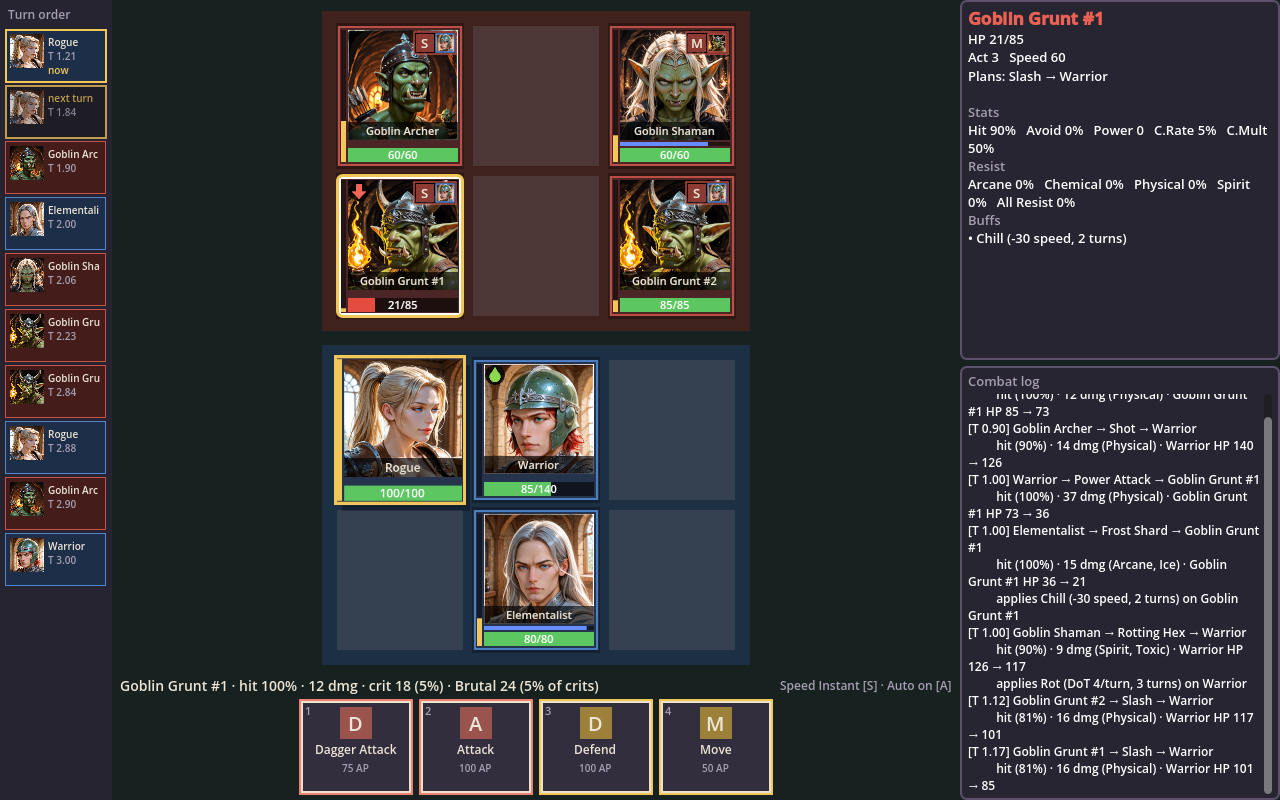
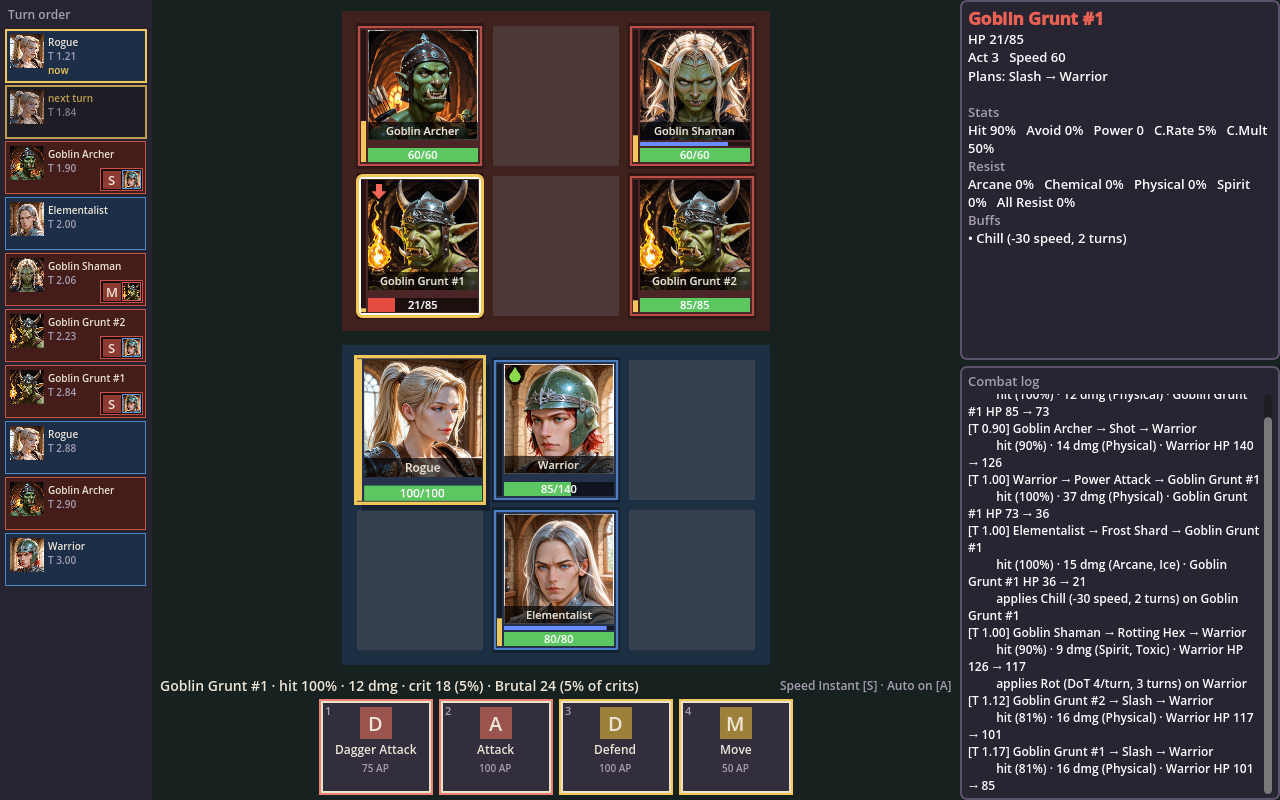
Intents on the turn order instead of the enemy cards
Each enemy's next chip shows its plan (action icon and target face, "?" when
confused, "..." when waiting) and flashes gold when a trigger changes it.
The card badge is gone. The timeline is wider (152 px) so chips fit the
intent and full names.

diff --git a/game/scripts/BattleUi/Timeline.cs b/game/scripts/BattleUi/Timeline.cs
@@ -1,3 +1,4 @@
+using EternalDungeon.Core.Assets;
 using EternalDungeon.Core.Combat;
 using Godot;
 using Side = EternalDungeon.Core.Combat.Side;
@@ -7,7 +8,7 @@ namespace EternalDungeon.Game.BattleUi;
 /// <summary>
 /// The turn order down the left edge (M2 brief §4, §6): upcoming turns as small portraits, sliding into their new order
 /// after each action. While an action is hovered, a ghost marker shows where the hero's next turn would land (and
-/// where its cast completes).
+/// where its cast completes). Each enemy's next chip shows its intent: the planned action and its target.
 /// </summary>
 public partial class Timeline : Control
 {
@@ -70,7 +71,9 @@ public partial class Timeline : Control
                 chips[key] = chip;
                 AddChild(chip);
             }
-            chip.Set(unit, tick, ghostLabel, i == 0 && ghostLabel is null && screen.Session.Awaiting is not null);
+            // An enemy's plan is for its next turn: only its first chip shows it.
+            var intent = ghostLabel is null && n == 1 && unit.Alive ? unit.Intent : null;
+            chip.Set(unit, tick, ghostLabel, i == 0 && ghostLabel is null && screen.Session.Awaiting is not null, intent);
             var t = chip.CreateTween().SetParallel();
             t.TweenProperty(chip, "position", new Vector2(6, Top + i * ChipHeight), 0.25f).SetTrans(Tween.TransitionType.Cubic).SetEase(Tween.EaseType.Out);
             t.TweenProperty(chip, "modulate:a", ghostLabel is null ? 1f : 0.75f, 0.2f);
@@ -92,7 +95,7 @@ public partial class Timeline : Control
         var label = Ui.Label(text, 11, Ui.Stagger);
         label.AddThemeConstantOverride("outline_size", 4);
         label.AddThemeColorOverride("font_outline_color", Colors.Black);
-        label.Position = new Vector2(chip.Size.X - 44, chip.Size.Y - 18);
+        label.Position = new Vector2(42, chip.Size.Y - 17);              // bottom left: the intent sits bottom right
         label.MouseFilter = MouseFilterEnum.Ignore;
         chip.AddChild(label);
         var seconds = Math.Max(0.8f, screen.Main.Settings.ActionSeconds * 3f);
@@ -102,23 +105,45 @@ public partial class Timeline : Control
         t.TweenCallback(Callable.From(label.QueueFree));
     }
 
-    /// <summary>One upcoming turn: a small portrait, the unit's name and when.</summary>
+    /// <summary>A trigger changed <paramref name="unit"/>'s plan (a taunt, Stealth, its target falling): its intent
+    /// flashes gold on its next chip.</summary>
+    public void FlashIntent(Unit unit, float seconds)
+    {
+        if (chips.TryGetValue(unit.Id + "#1", out var chip)) chip.FlashIntent(seconds);
+    }
+
+    /// <summary>One upcoming turn: a small portrait, the unit's name and when, and for an enemy's next turn its plan.</summary>
     partial class Chip(BattleScreen screen) : Control
     {
+        const int Icon = 18;
+
         Unit? unit;
         long tick;
         string? ghost;
         bool now;
+        Intent? intent;
+        float flash;                                                     // 0–1 while the intent flashes
 
-        public void Set(Unit u, long t, string? ghostLabel, bool current)
+        public void Set(Unit u, long t, string? ghostLabel, bool current, Intent? plan)
         {
             unit = u;
             tick = t;
             ghost = ghostLabel;
             now = current;
-            Size = new Vector2(100, ChipHeight - 4);
+            intent = plan;
+            Size = new Vector2(140, ChipHeight - 4);
             MouseFilter = MouseFilterEnum.Ignore;
             QueueRedraw();
+        }
+
+        public void FlashIntent(float seconds)
+        {
+            var t = CreateTween();
+            t.TweenMethod(Callable.From<float>(v =>
+            {
+                flash = v;
+                QueueRedraw();
+            }), 1f, 0f, Math.Max(0.6f, seconds));
         }
 
         public override void _Draw()
@@ -130,24 +155,65 @@ public partial class Timeline : Control
             DrawRect(box, ghost is null ? new Color(side.Darkened(0.7f), 0.95f) : new Color(0, 0, 0, 0.3f));
             DrawRect(box, ghost is not null ? Ui.Gold : now ? Ui.Gold : new Color(side, 0.8f), false, ghost is not null || now ? 2 : 1);
             var portrait = new Rect2(4, 4, 34, 34);
-            if (screen.Main.Art.Portrait(unit.Def.Id) is { } tex)
-            {
-                // A tall portrait shows its top square (the face), not the whole image squashed.
-                var side0 = Math.Min(tex.GetWidth(), tex.GetHeight());
-                DrawTextureRectRegion(tex, portrait, new Rect2(0, 0, side0, side0));
-            }
-            else
-            {
-                DrawRect(portrait, side.Darkened(0.45f));
-                var initials = string.Concat(unit.Def.Name.Split(' ', StringSplitOptions.RemoveEmptyEntries).Select(w => w[0]));
-                DrawString(font, portrait.Position + new Vector2(0, portrait.Size.Y * 0.62f), initials, HorizontalAlignment.Center, portrait.Size.X, 14, Ui.Ink);
-            }
+            DrawFace(font, unit, portrait, 14);
             var x = portrait.End.X + 4;
             var w = Size.X - x - 2;
-            var name = unit.Name.Length > 11 ? unit.Name[..10] + "…" : unit.Name;
+            var name = unit.Name.Length > 17 ? unit.Name[..16] + "…" : unit.Name;
             DrawString(font, new Vector2(x, 16), ghost ?? name, HorizontalAlignment.Left, w, 10, ghost is null ? Ui.Ink : Ui.Gold);
             DrawString(font, new Vector2(x, 30), Text.F("ui.at_time", ("time", Core.Combat.CombatLog.T(tick))), HorizontalAlignment.Left, w, 10, Ui.Dim);
             if (now) DrawString(font, new Vector2(x, 44), Text.T("ui.now"), HorizontalAlignment.Left, w, 10, Ui.Gold);
+            if (intent is not null) DrawIntent(font, intent);
+        }
+
+        /// <summary>
+        /// The enemy's plan, bottom right (Anchor: Combat › Enemy targeting): the planned action's icon (its initial
+        /// until icons exist), then a small portrait of its target ("↑" for a Move, nothing for a self action). "?"
+        /// while Confused, "…" when it plans to wait. Gold while it flashes.
+        /// </summary>
+        void DrawIntent(Font font, Intent plan)
+        {
+            var d = plan.Decision;
+            var hasTarget = d is { Tile: not null } || (d?.Target is { } t0 && t0 != unit);
+            var width = plan.Unknown || d is null || !hasTarget ? Icon + 4 : Icon * 2 + 6;
+            var box = new Rect2(Size.X - width - 3, Size.Y - Icon - 7, width, Icon + 4);
+            DrawRect(box, new Color(0, 0, 0, 0.6f));
+            DrawRect(box, flash > 0 ? Ui.Gold.Lerp(Ui.Enemy, 1 - flash) : new Color(Ui.Enemy, 0.8f), false, flash > 0 ? 3 : 1);
+            var slot = new Rect2(box.Position + new Vector2(2, 2), new Vector2(Icon, Icon));
+            if (plan.Unknown || d is null)
+            {
+                DrawString(font, slot.Position + new Vector2(0, 14), plan.Unknown ? "?" : "…", HorizontalAlignment.Center, slot.Size.X, 14, Ui.Ink);
+                return;
+            }
+            if (screen.Main.Art.Get(ArtCatalog.ActionIconId(d.Action.Id)) is { } icon)
+                DrawTextureRect(icon, slot, false);
+            else
+            {
+                DrawRect(slot, Ui.Enemy.Darkened(0.4f));
+                DrawString(font, slot.Position + new Vector2(0, 14), d.Action.Name[..1], HorizontalAlignment.Center, slot.Size.X, 13, Ui.Ink);
+            }
+            if (!hasTarget) return;
+            var second = new Rect2(slot.Position + new Vector2(Icon + 2, 0), slot.Size);
+            if (d.Tile is not null)
+            {
+                DrawString(font, second.Position + new Vector2(0, 14), "↑", HorizontalAlignment.Center, second.Size.X, 14, Ui.Ink);
+                return;
+            }
+            DrawFace(font, d.Target!, second, 9);
+            DrawRect(second, new Color(Ui.Side(d.Target!.Side), 0.9f), false, 1);
+        }
+
+        /// <summary>A unit's face: the top square of its portrait (a tall one shows its face), or its initials.</summary>
+        void DrawFace(Font font, Unit who, Rect2 rect, int initialsSize)
+        {
+            if (screen.Main.Art.Portrait(who.Def.Id) is { } tex)
+            {
+                var square = Math.Min(tex.GetWidth(), tex.GetHeight());
+                DrawTextureRectRegion(tex, rect, new Rect2(0, 0, square, square));
+                return;
+            }
+            DrawRect(rect, Ui.Side(who.Side).Darkened(0.45f));
+            var initials = string.Concat(who.Def.Name.Split(' ', StringSplitOptions.RemoveEmptyEntries).Select(w => w[0]));
+            DrawString(font, rect.Position + new Vector2(0, rect.Size.Y * 0.62f), initials, HorizontalAlignment.Center, rect.Size.X, initialsSize, Ui.Ink);
         }
     }
 }

diff --git a/game/scripts/BattleUi/CardFace.cs b/game/scripts/BattleUi/CardFace.cs
@@ -91,8 +91,6 @@ public partial class CardFace : Control
             x += ArtCatalog.StatusIconDisplay + 2;
         }
 
-        if (Unit.Alive && Unit.Intent is { } intent) DrawIntent(font, p, intent);
-
         // Act meter (or cast progress) up the left edge.
         var meter = new Rect2(3, 4, 5, Size.Y - 8);
         DrawRect(meter, new Color(0, 0, 0, 0.5f));
@@ -139,70 +137,6 @@ public partial class CardFace : Control
         DrawRect(new Rect2(Vector2.One, Size - Vector2.One * 2), mark, false, Mark == CardMark.None ? 2 : 4);
         if (screen.Main.Art.Get($"card_frame_{ArtCatalog.SizeName(Unit.Def.Size)}") is { } frame && !rotatePortrait)
             DrawTextureRect(frame, new Rect2(Vector2.Zero, Size), false);
-    }
-
-    const int IntentIcon = 18;
-
-    /// <summary>0–1 while the intent flashes after a trigger changed the plan.</summary>
-    float intentFlash;
-
-    /// <summary>The plan changed because of something a unit did (a taunt, Stealth, a target falling): flash it.</summary>
-    public void FlashIntent(float seconds)
-    {
-        var t = CreateTween();
-        t.TweenMethod(Callable.From<float>(v =>
-        {
-            intentFlash = v;
-            QueueRedraw();
-        }), 1f, 0f, Math.Max(0.6f, seconds));
-    }
-
-    /// <summary>
-    /// An enemy's plan in the top-right corner of its portrait (Anchor: Combat › Enemy targeting): the planned
-    /// action's icon, then a small portrait of its target ("↑" for a Move, nothing for a self action). "?" while
-    /// Confused, "…" when it plans to wait.
-    /// </summary>
-    void DrawIntent(Font font, Rect2 p, Intent intent)
-    {
-        var d = intent.Decision;
-        var hasTarget = d is { Tile: not null } || (d?.Target is { } t0 && t0 != Unit);
-        var width = intent.Unknown || d is null || !hasTarget ? IntentIcon + 4 : IntentIcon * 2 + 6;
-        var box = new Rect2(p.End.X - width - 2, p.Position.Y + 2, width, IntentIcon + 4);
-        DrawRect(box, new Color(0, 0, 0, 0.75f));
-        DrawRect(box, intentFlash > 0 ? Ui.Gold.Lerp(Ui.Enemy, 1 - intentFlash) : new Color(Ui.Enemy, 0.8f), false, intentFlash > 0 ? 3 : 1);
-        var slot = new Rect2(box.Position + new Vector2(2, 2), new Vector2(IntentIcon, IntentIcon));
-        if (intent.Unknown || d is null)
-        {
-            DrawString(font, slot.Position + new Vector2(0, 14), intent.Unknown ? "?" : "…", HorizontalAlignment.Center, slot.Size.X, 14, Ui.Ink);
-            return;
-        }
-        if (screen.Main.Art.Get(ArtCatalog.ActionIconId(d.Action.Id)) is { } icon)
-            DrawTextureRect(icon, slot, false);
-        else
-        {
-            DrawRect(slot, Ui.Enemy.Darkened(0.4f));
-            DrawString(font, slot.Position + new Vector2(0, 14), d.Action.Name[..1], HorizontalAlignment.Center, slot.Size.X, 13, Ui.Ink);
-        }
-        if (!hasTarget) return;
-        var second = new Rect2(slot.Position + new Vector2(IntentIcon + 2, 0), slot.Size);
-        if (d.Tile is not null)
-        {
-            DrawString(font, second.Position + new Vector2(0, 14), "↑", HorizontalAlignment.Center, second.Size.X, 14, Ui.Ink);
-            return;
-        }
-        var target = d.Target!;
-        if (screen.Main.Art.Portrait(target.Def.Id) is { } tex)
-        {
-            var square = Math.Min(tex.GetWidth(), tex.GetHeight());         // a tall portrait shows its face
-            DrawTextureRectRegion(tex, second, new Rect2(0, 0, square, square));
-        }
-        else
-        {
-            DrawRect(second, Ui.Side(target.Side).Darkened(0.45f));
-            var initials = string.Concat(target.Def.Name.Split(' ', StringSplitOptions.RemoveEmptyEntries).Select(w => w[0]));
-            DrawString(font, second.Position + new Vector2(0, 13), initials, HorizontalAlignment.Center, second.Size.X, 10, Ui.Ink);
-        }
-        DrawRect(second, new Color(Ui.Side(target.Side), 0.9f), false, 1);
     }
 
     string PortraitState()

diff --git a/game/scripts/BattleUi/BattleScreen.cs b/game/scripts/BattleUi/BattleScreen.cs
@@ -147,7 +147,7 @@ public partial class BattleScreen : Control
 
     static class Layout
     {
-        public const float TimelineWidth = 112, PanelWidth = 320, BarHeight = 124;
+        public const float TimelineWidth = 152, PanelWidth = 320, BarHeight = 124;
     }
 
     void Layout0()
@@ -343,10 +343,9 @@ public partial class BattleScreen : Control
                 Float(i.Unit, T("ui.interrupted"), Ui.Enemy, 14);
                 board.Cards[i.Unit].Shake(s * 0.3f);
                 break;
-            case IntentSet { Triggered: true } i when board.Cards.ContainsKey(i.Unit):
-                // A taunt, Stealth or a fall changed an enemy's plan: its intent flashes.
-                board.Cards[i.Unit].Redraw();
-                if (s > 0) board.Cards[i.Unit].Face.FlashIntent(s * 2.4f);
+            case IntentSet { Triggered: true } i:
+                // A taunt, Stealth or a fall changed an enemy's plan: its intent flashes on its turn-order chip.
+                if (s > 0) timeline.FlashIntent(i.Unit, s * 2.4f);
                 break;
             case TurnLost l:
                 Float(l.Unit, T("ui.turn_lost"), Ui.Dim, 14);

diff --git a/src/Core/Combat/UnitAi.cs b/src/Core/Combat/UnitAi.cs
@@ -5,7 +5,7 @@ namespace EternalDungeon.Core.Combat;
 /// <summary>What a unit will do with its turn: an action and its target unit or tile.</summary>
 public sealed record Decision(ActionDef Action, Unit? Target, Tile? Tile);
 
-/// <summary>An enemy's committed next turn, shown on its card (Anchor: Combat › Enemy targeting). A null
+/// <summary>An enemy's committed next turn, shown on the turn order (Anchor: Combat › Enemy targeting). A null
 /// <see cref="Decision"/> means it will wait. <see cref="Unknown"/>: it's Confused and will act at random ("?").</summary>
 public sealed record Intent(Decision? Decision, bool Unknown = false);
 

diff --git a/src/Core/Combat/Unit.cs b/src/Core/Combat/Unit.cs
@@ -56,7 +56,7 @@ public sealed class Unit
     /// again once a Threatening change ends.</summary>
     public double EffectiveThreat => ThreatScore * Threatening;
 
-    /// <summary>An enemy's committed next action, shown on its card (null for heroes).</summary>
+    /// <summary>An enemy's committed next action, shown on its next turn-order chip (null for heroes).</summary>
     public Intent? Intent { get; set; }
 
     /// <summary>Hidden. Rises as Health drops: the share of Health missing, plus the Vulnerability stat in percent.</summary>

diff --git a/docs/design/presentation.md b/docs/design/presentation.md
@@ -40,8 +40,8 @@ Designed at **1280×800** (Steam Deck's native 16:10) and scaled up for larger s
    chance, damage on a normal hit, a crit and a Brutal crit with their chances, effects it would apply, and procs that
    could trigger with their chances. Damage is static (no damage roll), so the numbers are exact; procs aren't in them.
 4. Click to confirm; right-click or Escape steps back. Enemy turns play automatically.
-   **Enemy intents:** each enemy card shows what it will do next: the planned action's icon and a small portrait of
-   its target ("?" while Confused). When something the player did changes a plan (a taunt, Stealth, a target falling
+   **Enemy intents:** each enemy's next chip on the turn order shows what it will do: the planned action's icon and a
+   small portrait of its target ("?" while Confused). Its later chips show nothing: that turn isn't planned yet. When something the player did changes a plan (a taunt, Stealth, a target falling
    or moving away), the intent flashes, so the player sees it worked. A hero's details show its share of the party's
    threat.
 5. **Heroes the player can't fully control:** Stunned or Sleeping heroes lose the turn (shown briefly). Feared and Confused heroes

diff --git a/docs/design/combat.md b/docs/design/combat.md
@@ -112,7 +112,7 @@ Redesigned 2026-10-08 (Jeremy).
 
 The highest score wins. Ties are broken by a pick from the battle's seeded random generator, never a global one. Percent of the highest is kept on purpose: unlike percent of the total, it doesn't change with party size (a fifth unit or a pet doesn't dilute everyone). The UI can still show each hero's share of the total.
 
-**Committed intents.** Enemies decide their next action and target ahead of time, and the player sees it on their card.
+**Committed intents.** Enemies decide their next action and target ahead of time, and the player sees it on the turn order.
 
 - An enemy plans at the start of the battle (after fight-start procs) and at the end of each of its own turns. Planning uses the battle's seeded random generator when it's made, so replays stay exact. Its AI rules ("heal self below 40%") are checked when it plans, not when it acts.
 - On its turn it does what it planned. The plan changes, straight away, only when a unit does something:
